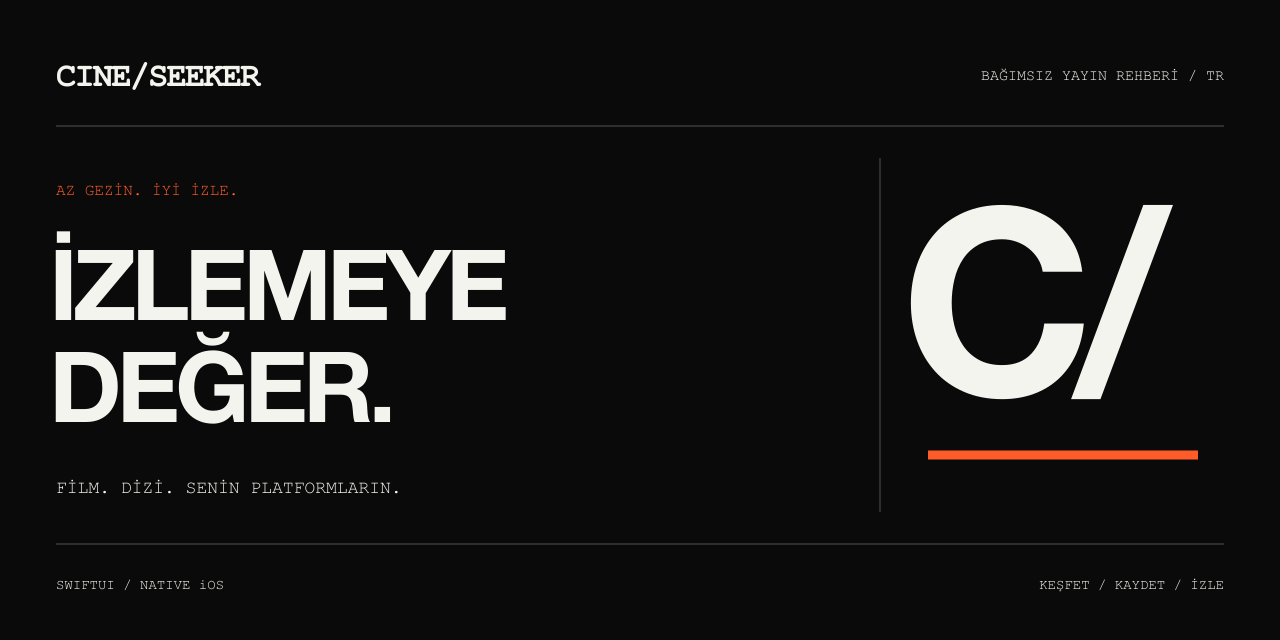
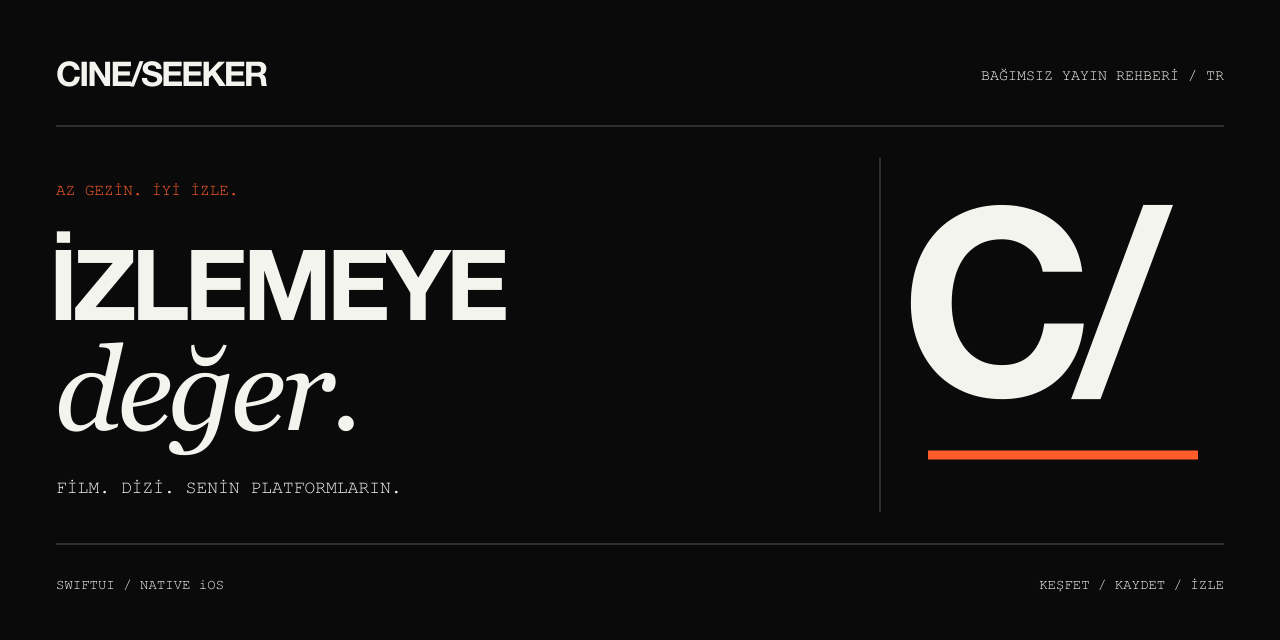
Present CineSeeker 1.3 portraits and editorial identity

Changed region(s): [[0.0312, 0.5, 0.3125, 0.7188], [0.0312, 0.0938, 0.2188, 0.1562]]

diff --git a/README.md b/README.md
@@ -45,10 +45,14 @@ Ana sayfadaki tek dokunuşla, daha önce sevdiğin hikâyelerden yeni bir film b
 
 ## Uygulamadan
 
+**1.3 / Portreler.** Bir oyuncunun yüzünden başka bir filme, bir yönetmenin adından bütün filmografisine geç. Katkı türünü seç, film ve dizileri ayır, adıyla ara veya tarihe göre sırala. Aynı yapımdaki roller tek kartta birleşir. Türkçe biyografi bulunmadığında İngilizce metin ayrıca belirtilir.
+
+Detay sayfasındaki fragman ve bağlantılı yapımlar keşfi devam ettirir. Sinema dergisini anımsatan italik başlıklar ve siyah-beyaz portreler, keskin ve sade arayüzü tamamlar.
+
 <p align="center">
   <img src="https://raw.githubusercontent.com/projectcagla/cineseeker/feat/native-ios/docs/screenshots/01-Discover.png" width="30%" alt="CineSeeker Keşfet ekranı" />
-  <img src="https://raw.githubusercontent.com/projectcagla/cineseeker/feat/native-ios/docs/screenshots/02-Search.png" width="30%" alt="Film ve dizi araması" />
-  <img src="https://raw.githubusercontent.com/projectcagla/cineseeker/feat/native-ios/docs/screenshots/05-Platforms.png" width="30%" alt="Platform aboneliği tercihleri" />
+  <img src="https://raw.githubusercontent.com/projectcagla/cineseeker/feat/native-ios/docs/screenshots/10-Person.png" width="30%" alt="Yönetmen portresi ve filmografisi" />
+  <img src="https://raw.githubusercontent.com/projectcagla/cineseeker/feat/native-ios/docs/screenshots/12-Detail.png" width="30%" alt="Film detayları ve fragman" />
 </p>
 
 Gerçek uygulamadan, iPhone / iOS 27 simülatörü. Katalog görselleri TMDB kaynaklıdır.
@@ -74,7 +78,7 @@ Mobil uygulamaya eklenen ortak okuma token’ı dağıtılan paketten çıkarıl
 
 Cloud ayarları Apple hesabında tutulur. `TMDB_READ_TOKEN` Xcode Cloud’da **Secret** olarak tanımlanır; imzalama Xcode Cloud tarafından yönetilir. İlk TestFlight sürümünün çalıştığı hesap sahibi tarafından doğrulanmıştır. Her yeni sürümün durumu ayrıca Cloud raporundan takip edilmelidir.
 
-[Dağıtım rehberi](https://github.com/projectcagla/cineseeker/blob/feat/native-ios/ios/README.md#xcode-cloud-ile-otomatik-testflight) · [1.2.0 değişiklikleri](https://github.com/projectcagla/cineseeker/blob/feat/native-ios/ios/CHANGELOG.md)
+[Dağıtım rehberi](https://github.com/projectcagla/cineseeker/blob/feat/native-ios/ios/README.md#xcode-cloud-ile-otomatik-testflight) · [1.3.0 değişiklikleri](https://github.com/projectcagla/cineseeker/blob/feat/native-ios/ios/CHANGELOG.md)
 
 ## Kod haritası
 
@@ -86,7 +90,7 @@ ios/
     Core/               Ağ, görüntü önbelleği, SwiftData, tasarım sistemi
     Domain/ + Models/   Katalog sözleşmeleri ve veri modelleri
     Data/               Canlı TMDB deposu
-    Features/           Keşfet, arama, detay, liste, platformlar, ayarlar
+    Features/           Keşfet, öneri, kişi/film detayları, arama, liste, ayarlar
   CineSeekerTests/       Veri, ağ ve hata senaryoları
   CineSeekerUITests/     Ekranlar arası gezinme ve ekran görüntüleri
   ci_scripts/           Xcode Cloud hazırlığı

diff --git a/docs/brand/README.md b/docs/brand/README.md
@@ -1,0 +1,43 @@
+# CINE/SEEKER — minimal brutalist kimlik
+
+**AZ GEZİN. İYİ İZLE.**
+
+Kimlik tipografiktir: tam yazım **CINE/SEEKER**, dar alanlarda **C/**. Eğik çizgi keşiften izlemeye geçişi ayırır. Ek maskot, oynat düğmesi veya süslü monogram kullanılmaz.
+
+## Marka paketi
+
+| Dosya | Kullanım |
+|---|---|
+| [wordmark.svg](../../public/brand/wordmark.svg) | Koyu zeminde tam logo |
+| [wordmark-light.svg](../../public/brand/wordmark-light.svg) | Açık zeminde tam logo |
+| [mark.svg](../../public/brand/mark.svg) | Koyu zeminde C/ |
+| [mark-mono.svg](../../public/brand/mark-mono.svg) | Tek renk `currentColor` |
+| [app-icon.png](../../public/brand/app-icon.png) | 1024 × 1024, opak iOS ikonu |
+| [icon.svg](../../public/brand/icon.svg) | Web ikonu |
+| [github-cover.svg](../../public/brand/github-cover.svg) | Ölçeklenebilir README kapağı |
+| [github-cover.png](../../public/brand/github-cover.png) | 1280 × 640 sosyal paylaşım görseli |
+
+## Görsel kurallar
+
+- Zemin `#0A0A0A`, yazı `#F4F4EF`, vurgu `#FF5C29`.
+- Tipografi: koyu grotesk başlıklar; kısa editoryal vurgularda italik serif; bilgi etiketlerinde monospaced sistem yazısı. iOS’ta Dynamic Type korunur. Üç üslup aynı satırda karıştırılmaz.
+- Portreler siyah-beyaz, film afişleri özgün renklerindedir. İnce çizgiler, numaralı bölüm etiketleri ve kontrollü boşluklar sinema dergisi düzenini taşır.
+- Köşeler keskin, yüzeyler düz, ayırıcı çizgiler incedir. Dekoratif gölge, parlama ve renkli degrade kullanılmaz. Afişin üzerinde metin okunurluğu için siyah geçiş kullanılabilir.
+- Ana işlem siyah-beyaz bloktur. Turuncu kısa vurgu ve aktif durumlar içindir; yeşil yalnızca abonelik durumunu belirtir.
+- Native gezinme, arama ve paylaşım kontrolleri işletim sisteminin erişilebilir davranışını korur.
+- Logonun çevresinde harf yüksekliğinin yarısı kadar boşluk bırak. C/ en az 24 px; tam logo en az 140 px genişlikte kullanılmalıdır.
+- Uygulama ikonunun köşelerini dosyada kesme; maskeyi iOS uygular.
+
+## Yeniden üretim
+
+`feat/native-ios` dalının kökünde:
+
+```sh
+python3 scripts/generate-brand.py
+swift ios/scripts/draw_icon.swift ios/CineSeeker/Resources/Assets.xcassets/AppIcon.appiconset/AppIcon.png
+cp ios/CineSeeker/Resources/Assets.xcassets/AppIcon.appiconset/AppIcon.png public/brand/app-icon.png
+node scripts/render-brand.mjs
+python3 ios/scripts/generate_project.py
+```
+
+SVG kaynakları Python, uygulama ikonu CoreGraphics/CoreText ve web çıktı dosyaları projenin Sharp bağımlılığı ile üretilir.
